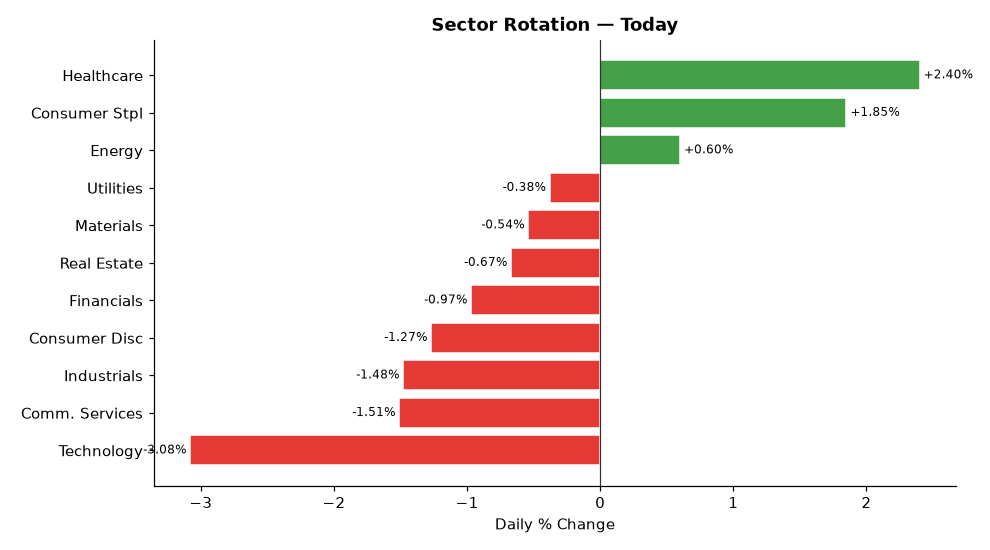
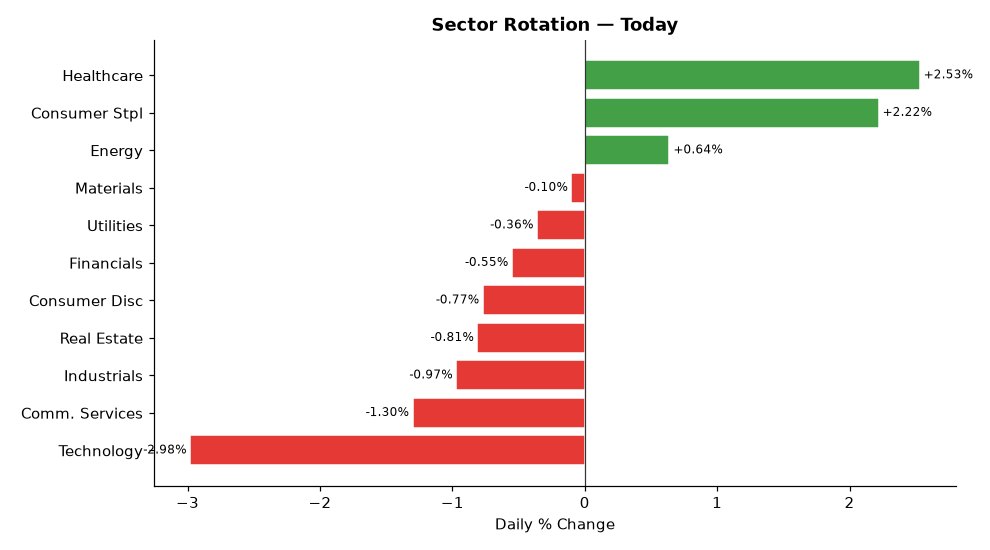
deploy: b7fadf5b06deb90e7ebb92f278722414bdd9750d

diff --git a/index.html b/index.html
@@ -4,7 +4,7 @@
   <meta charset="UTF-8">
   <meta name="viewport" content="width=device-width,initial-scale=1">
   <meta http-equiv="Cache-Control" content="no-cache,no-store,must-revalidate">
-  <title>Stock Breakout Screener — 2026-10-14 18:47</title>
+  <title>Stock Breakout Screener — 2026-10-14 20:32</title>
   <style>
     *{box-sizing:border-box;margin:0;padding:0}
     body{font-family:'Segoe UI',Arial,sans-serif;background:#f0f2f5;
@@ -34,20 +34,20 @@
 
 <div class="hdr">
   <h1>📈 Stock Breakout Screener</h1>
-  <p>Updated: 2026-10-14 18:47 UTC &nbsp;·&nbsp; Phase: Regular Market Hours &nbsp;·&nbsp;
+  <p>Updated: 2026-10-14 20:32 UTC &nbsp;·&nbsp; Phase: After-Hours (4:00–8:00 PM ET) &nbsp;·&nbsp;
      129 stocks screened &nbsp;·&nbsp; Top 5 by conviction score</p>
 </div>
 
 <div class="card">
   <strong style="font-size:14px">Market Sentiment: 🐻 Bearish</strong>
   <div class="bar-wrap" style="margin-top:10px">
-    <div style="width:0%;background:#43a047"></div>
-    <div style="width:8%;background:#fdd835"></div>
+    <div style="width:1%;background:#43a047"></div>
+    <div style="width:7%;background:#fdd835"></div>
     <div style="width:92%;background:#e53935"></div>
   </div>
   <div style="font-size:12px;color:#555">
-    🟢 Strong 0% &nbsp;
-    🟡 Moderate 8% &nbsp;
+    🟢 Strong 1% &nbsp;
+    🟡 Moderate 7% &nbsp;
     🔴 Weak 92%
   </div>
 </div>
@@ -59,17 +59,17 @@
                     box-shadow:0 2px 6px rgba(0,0,0,.07)">
           <div style="display:flex;align-items:center;gap:10px;
                       flex-wrap:wrap;margin-bottom:10px">
-            <span style="font-size:22px">🟡</span>
+            <span style="font-size:22px">🟢</span>
             <span style="font-size:19px;font-weight:700">1. UNH</span>
             <span style="font-size:12px;color:#666">Healthcare</span>
             <span style="margin-left:auto;background:#1a237e;color:#fff;
                          padding:3px 12px;border-radius:12px;
                          font-size:13px;font-weight:600">
-              11/17
+              13/17
             </span>
           </div>
           <ul style="margin:0;padding-left:18px;font-size:13px;
-                     color:#333;line-height:1.8"><li style="margin:5px 0"><span style="background:#ffebee;color:#b71c1c;padding:2px 7px;border-radius:4px;font-size:11px;">❌</span> Volume: <b>0.8× average</b> — Above-average activity</li><li style="margin:5px 0"><span style="background:#ffebee;color:#b71c1c;padding:2px 7px;border-radius:4px;font-size:11px;">❌</span> Candle: close <b>$392.81</b> vs open <b>$382.29</b> (+2.8%) — regular market close</li><li style="margin:5px 0"><span style="background:#e8f5e9;color:#2e7d32;padding:2px 7px;border-radius:4px;font-size:11px;">✅</span> 200-Day MA: price <b>$392.81</b> vs MA <b>$389.04</b> — <b>✅ Above</b> long-term trend</li><li style="margin:5px 0"><span style="background:#e8f5e9;color:#2e7d32;padding:2px 7px;border-radius:4px;font-size:11px;">✅</span> Inst. ownership: <b>89.7%</b> · MFI: <b>68.4</b> · Market cap: <b>$352.7B</b></li></ul>
+                     color:#333;line-height:1.8"><li style="margin:5px 0"><span style="background:#ffebee;color:#b71c1c;padding:2px 7px;border-radius:4px;font-size:11px;">❌</span> Volume: <b>1.3× average</b> — Above-average activity</li><li style="margin:5px 0"><span style="background:#e8f5e9;color:#2e7d32;padding:2px 7px;border-radius:4px;font-size:11px;">✅</span> Candle: close <b>$395.62</b> vs open <b>$382.29</b> (+3.5%) — regular market close</li><li style="margin:5px 0"><span style="background:#e8f5e9;color:#2e7d32;padding:2px 7px;border-radius:4px;font-size:11px;">✅</span> 200-Day MA: price <b>$395.62</b> vs MA <b>$389.68</b> — <b>✅ Above</b> long-term trend</li><li style="margin:5px 0"><span style="background:#e8f5e9;color:#2e7d32;padding:2px 7px;border-radius:4px;font-size:11px;">✅</span> Inst. ownership: <b>89.7%</b> · MFI: <b>69.5</b> · Market cap: <b>$355.1B</b></li></ul>
         </div>
         <div style="background:#fff;border:1px solid #ddd;border-radius:10px;
                     padding:16px 20px;margin-bottom:12px;
@@ -86,7 +86,7 @@
             </span>
           </div>
           <ul style="margin:0;padding-left:18px;font-size:13px;
-                     color:#333;line-height:1.8"><li style="margin:5px 0"><span style="background:#ffebee;color:#b71c1c;padding:2px 7px;border-radius:4px;font-size:11px;">❌</span> Volume: <b>0.4× average</b> — Above-average activity</li><li style="margin:5px 0"><span style="background:#ffebee;color:#b71c1c;padding:2px 7px;border-radius:4px;font-size:11px;">❌</span> Candle: close <b>$284.29</b> vs open <b>$277.00</b> (+2.6%) — regular market close</li><li style="margin:5px 0"><span style="background:#e8f5e9;color:#2e7d32;padding:2px 7px;border-radius:4px;font-size:11px;">✅</span> 200-Day MA: price <b>$284.29</b> vs MA <b>$239.73</b> — <b>✅ Above</b> long-term trend</li><li style="margin:5px 0"><span style="background:#e8f5e9;color:#2e7d32;padding:2px 7px;border-radius:4px;font-size:11px;">✅</span> Inst. ownership: <b>77.3%</b> · MFI: <b>60.5</b> · Market cap: <b>$502.4B</b></li><li style="margin:5px 0"><span style="background:#ffebee;color:#b71c1c;padding:2px 7px;border-radius:4px;font-size:11px;">❌</span> Last similar breakout: <b>Jun 26, 2026</b> → <b>-2.1%</b> over 10 trading days</li></ul>
+                     color:#333;line-height:1.8"><li style="margin:5px 0"><span style="background:#ffebee;color:#b71c1c;padding:2px 7px;border-radius:4px;font-size:11px;">❌</span> Volume: <b>0.9× average</b> — Above-average activity</li><li style="margin:5px 0"><span style="background:#ffebee;color:#b71c1c;padding:2px 7px;border-radius:4px;font-size:11px;">❌</span> Candle: close <b>$283.48</b> vs open <b>$277.00</b> (+2.3%) — regular market close</li><li style="margin:5px 0"><span style="background:#e8f5e9;color:#2e7d32;padding:2px 7px;border-radius:4px;font-size:11px;">✅</span> 200-Day MA: price <b>$283.48</b> vs MA <b>$239.98</b> — <b>✅ Above</b> long-term trend</li><li style="margin:5px 0"><span style="background:#e8f5e9;color:#2e7d32;padding:2px 7px;border-radius:4px;font-size:11px;">✅</span> Inst. ownership: <b>77.3%</b> · MFI: <b>62.4</b> · Market cap: <b>$500.9B</b></li><li style="margin:5px 0"><span style="background:#ffebee;color:#b71c1c;padding:2px 7px;border-radius:4px;font-size:11px;">❌</span> Last similar breakout: <b>Jun 26, 2026</b> → <b>-2.1%</b> over 10 trading days</li></ul>
         </div>
         <div style="background:#fff;border:1px solid #ddd;border-radius:10px;
                     padding:16px 20px;margin-bottom:12px;
@@ -103,7 +103,7 @@
             </span>
           </div>
           <ul style="margin:0;padding-left:18px;font-size:13px;
-                     color:#333;line-height:1.8"><li style="margin:5px 0"><span style="background:#ffebee;color:#b71c1c;padding:2px 7px;border-radius:4px;font-size:11px;">❌</span> Volume: <b>0.3× average</b> — Above-average activity</li><li style="margin:5px 0"><span style="background:#ffebee;color:#b71c1c;padding:2px 7px;border-radius:4px;font-size:11px;">❌</span> Candle: close <b>$533.97</b> vs open <b>$545.15</b> (-2.0%) — regular market close</li><li style="margin:5px 0"><span style="background:#e8f5e9;color:#2e7d32;padding:2px 7px;border-radius:4px;font-size:11px;">✅</span> 200-Day MA: price <b>$533.97</b> vs MA <b>$444.44</b> — <b>✅ Above</b> long-term trend</li><li style="margin:5px 0"><span style="background:#e8f5e9;color:#2e7d32;padding:2px 7px;border-radius:4px;font-size:11px;">✅</span> Inst. ownership: <b>75.8%</b> · MFI: <b>77.3</b> · Market cap: <b>$3965.4B</b></li><li style="margin:5px 0"><span style="background:#e8f5e9;color:#2e7d32;padding:2px 7px;border-radius:4px;font-size:11px;">✅</span> Last similar breakout: <b>Jul 30, 2026</b> → <b>+10.1%</b> over 10 trading days</li></ul>
+                     color:#333;line-height:1.8"><li style="margin:5px 0"><span style="background:#ffebee;color:#b71c1c;padding:2px 7px;border-radius:4px;font-size:11px;">❌</span> Volume: <b>0.6× average</b> — Above-average activity</li><li style="margin:5px 0"><span style="background:#ffebee;color:#b71c1c;padding:2px 7px;border-radius:4px;font-size:11px;">❌</span> Candle: close <b>$533.69</b> vs open <b>$545.15</b> (-2.1%) — regular market close</li><li style="margin:5px 0"><span style="background:#e8f5e9;color:#2e7d32;padding:2px 7px;border-radius:4px;font-size:11px;">✅</span> 200-Day MA: price <b>$533.69</b> vs MA <b>$444.86</b> — <b>✅ Above</b> long-term trend</li><li style="margin:5px 0"><span style="background:#e8f5e9;color:#2e7d32;padding:2px 7px;border-radius:4px;font-size:11px;">✅</span> Inst. ownership: <b>75.8%</b> · MFI: <b>74.9</b> · Market cap: <b>$3962.9B</b></li><li style="margin:5px 0"><span style="background:#e8f5e9;color:#2e7d32;padding:2px 7px;border-radius:4px;font-size:11px;">✅</span> Last similar breakout: <b>Jul 30, 2026</b> → <b>+10.1%</b> over 10 trading days</li></ul>
         </div>
         <div style="background:#fff;border:1px solid #ddd;border-radius:10px;
                     padding:16px 20px;margin-bottom:12px;
@@ -120,7 +120,7 @@
             </span>
           </div>
           <ul style="margin:0;padding-left:18px;font-size:13px;
-                     color:#333;line-height:1.8"><li style="margin:5px 0"><span style="background:#ffebee;color:#b71c1c;padding:2px 7px;border-radius:4px;font-size:11px;">❌</span> Volume: <b>0.7× average</b> — Above-average activity</li><li style="margin:5px 0"><span style="background:#ffebee;color:#b71c1c;padding:2px 7px;border-radius:4px;font-size:11px;">❌</span> Candle: close <b>$29.33</b> vs open <b>$28.60</b> (+2.6%) — regular market close</li><li style="margin:5px 0"><span style="background:#e8f5e9;color:#2e7d32;padding:2px 7px;border-radius:4px;font-size:11px;">✅</span> 200-Day MA: price <b>$29.33</b> vs MA <b>$26.14</b> — <b>✅ Above</b> long-term trend</li><li style="margin:5px 0"><span style="background:#e8f5e9;color:#2e7d32;padding:2px 7px;border-radius:4px;font-size:11px;">✅</span> Inst. ownership: <b>69.1%</b> · MFI: <b>51.0</b> · Market cap: <b>$167.2B</b></li></ul>
+                     color:#333;line-height:1.8"><li style="margin:5px 0"><span style="background:#ffebee;color:#b71c1c;padding:2px 7px;border-radius:4px;font-size:11px;">❌</span> Volume: <b>1.0× average</b> — Above-average activity</li><li style="margin:5px 0"><span style="background:#ffebee;color:#b71c1c;padding:2px 7px;border-radius:4px;font-size:11px;">❌</span> Candle: close <b>$29.21</b> vs open <b>$28.60</b> (+2.1%) — regular market close</li><li style="margin:5px 0"><span style="background:#e8f5e9;color:#2e7d32;padding:2px 7px;border-radius:4px;font-size:11px;">✅</span> 200-Day MA: price <b>$29.21</b> vs MA <b>$26.14</b> — <b>✅ Above</b> long-term trend</li><li style="margin:5px 0"><span style="background:#e8f5e9;color:#2e7d32;padding:2px 7px;border-radius:4px;font-size:11px;">✅</span> Inst. ownership: <b>69.1%</b> · MFI: <b>52.6</b> · Market cap: <b>$166.5B</b></li></ul>
         </div>
         <div style="background:#fff;border:1px solid #ddd;border-radius:10px;
                     padding:16px 20px;margin-bottom:12px;
@@ -137,7 +137,7 @@
             </span>
           </div>
           <ul style="margin:0;padding-left:18px;font-size:13px;
-                     color:#333;line-height:1.8"><li style="margin:5px 0"><span style="background:#ffebee;color:#b71c1c;padding:2px 7px;border-radius:4px;font-size:11px;">❌</span> Volume: <b>0.6× average</b> — Above-average activity</li><li style="margin:5px 0"><span style="background:#ffebee;color:#b71c1c;padding:2px 7px;border-radius:4px;font-size:11px;">❌</span> Candle: close <b>$1212.08</b> vs open <b>$1177.87</b> (+2.9%) — regular market close</li><li style="margin:5px 0"><span style="background:#e8f5e9;color:#2e7d32;padding:2px 7px;border-radius:4px;font-size:11px;">✅</span> 200-Day MA: price <b>$1212.08</b> vs MA <b>$1116.13</b> — <b>✅ Above</b> long-term trend</li><li style="margin:5px 0"><span style="background:#e8f5e9;color:#2e7d32;padding:2px 7px;border-radius:4px;font-size:11px;">✅</span> Inst. ownership: <b>85.3%</b> · MFI: <b>51.2</b> · Market cap: <b>$1080.9B</b></li><li style="margin:5px 0"><span style="background:#ffebee;color:#b71c1c;padding:2px 7px;border-radius:4px;font-size:11px;">❌</span> Last similar breakout: <b>Jun 26, 2026</b> → <b>-2.2%</b> over 10 trading days</li></ul>
+                     color:#333;line-height:1.8"><li style="margin:5px 0"><span style="background:#ffebee;color:#b71c1c;padding:2px 7px;border-radius:4px;font-size:11px;">❌</span> Volume: <b>1.1× average</b> — Above-average activity</li><li style="margin:5px 0"><span style="background:#ffebee;color:#b71c1c;padding:2px 7px;border-radius:4px;font-size:11px;">❌</span> Candle: close <b>$1208.74</b> vs open <b>$1177.87</b> (+2.6%) — regular market close</li><li style="margin:5px 0"><span style="background:#e8f5e9;color:#2e7d32;padding:2px 7px;border-radius:4px;font-size:11px;">✅</span> 200-Day MA: price <b>$1208.74</b> vs MA <b>$1117.65</b> — <b>✅ Above</b> long-term trend</li><li style="margin:5px 0"><span style="background:#e8f5e9;color:#2e7d32;padding:2px 7px;border-radius:4px;font-size:11px;">✅</span> Inst. ownership: <b>85.3%</b> · MFI: <b>53.3</b> · Market cap: <b>$1077.4B</b></li><li style="margin:5px 0"><span style="background:#ffebee;color:#b71c1c;padding:2px 7px;border-radius:4px;font-size:11px;">❌</span> Last similar breakout: <b>Jun 26, 2026</b> → <b>-2.2%</b> over 10 trading days</li></ul>
         </div>
 
 
@@ -168,36 +168,36 @@
   
         <tr>
           <td style="font-weight:700;text-align:left;padding-left:10px">
-            🟡 UNH</td>
-          <td style="background:#ffcdd2">0.8×</td>
-          <td style="background:#ffcdd2">+2.8%</td>
+            🟢 UNH</td>
+          <td style="background:#ffcdd2">1.3×</td>
+          <td style="background:#c8e6c9">+3.5%</td>
           <td style="background:#c8e6c9">
             ▲ Above</td>
           <td style="background:#c8e6c9">
             89.7%</td>
           <td style="background:#c8e6c9">
-            68.4</td>
+            69.5</td>
           <td style="background:#c8e6c9">Healthcare</td>
           <td style="background:#c8e6c9">
-            91.3%</td>
+            99.0%</td>
           <td style="background:#ffcdd2">
             N/A</td>
-          <td style="font-weight:800;font-size:15px">11/17</td>
+          <td style="font-weight:800;font-size:15px">13/17</td>
         </tr>
         <tr>
           <td style="font-weight:700;text-align:left;padding-left:10px">
             🟡 ABBV</td>
-          <td style="background:#ffcdd2">0.4×</td>
-          <td style="background:#ffcdd2">+2.6%</td>
+          <td style="background:#ffcdd2">0.9×</td>
+          <td style="background:#ffcdd2">+2.3%</td>
           <td style="background:#c8e6c9">
             ▲ Above</td>
           <td style="background:#c8e6c9">
             77.3%</td>
           <td style="background:#c8e6c9">
-            60.5</td>
+            62.4</td>
           <td style="background:#c8e6c9">Healthcare</td>
           <td style="background:#c8e6c9">
-            120.7%</td>
+            153.5%</td>
           <td style="background:#ffcdd2">
             -2.1%</td>
           <td style="font-weight:800;font-size:15px">11/17</td>
@@ -205,17 +205,17 @@
         <tr>
           <td style="font-weight:700;text-align:left;padding-left:10px">
             🟡 MSFT</td>
-          <td style="background:#ffcdd2">0.3×</td>
-          <td style="background:#ffcdd2">-2.0%</td>
+          <td style="background:#ffcdd2">0.6×</td>
+          <td style="background:#ffcdd2">-2.1%</td>
           <td style="background:#c8e6c9">
             ▲ Above</td>
           <td style="background:#c8e6c9">
             75.8%</td>
           <td style="background:#c8e6c9">
-            77.3</td>
+            74.9</td>
           <td style="background:#ffcdd2">Technology</td>
           <td style="background:#c8e6c9">
-            80.7%</td>
+            92.6%</td>
           <td style="background:#c8e6c9">
             +10.1%</td>
           <td style="font-weight:800;font-size:15px">10/17</td>
@@ -223,17 +223,17 @@
         <tr>
           <td style="font-weight:700;text-align:left;padding-left:10px">
             🟡 PFE</td>
-          <td style="background:#ffcdd2">0.7×</td>
-          <td style="background:#ffcdd2">+2.6%</td>
+          <td style="background:#ffcdd2">1.0×</td>
+          <td style="background:#ffcdd2">+2.1%</td>
           <td style="background:#c8e6c9">
             ▲ Above</td>
           <td style="background:#c8e6c9">
             69.1%</td>
           <td style="background:#fff9c4">
-            51.0</td>
+            52.6</td>
           <td style="background:#c8e6c9">Healthcare</td>
           <td style="background:#c8e6c9">
-            124.4%</td>
+            142.4%</td>
           <td style="background:#ffcdd2">
             N/A</td>
           <td style="font-weight:800;font-size:15px">10/17</td>
@@ -241,17 +241,17 @@
         <tr>
           <td style="font-weight:700;text-align:left;padding-left:10px">
             🟡 LLY</td>
-          <td style="background:#ffcdd2">0.6×</td>
-          <td style="background:#ffcdd2">+2.9%</td>
+          <td style="background:#ffcdd2">1.1×</td>
+          <td style="background:#ffcdd2">+2.6%</td>
           <td style="background:#c8e6c9">
             ▲ Above</td>
           <td style="background:#c8e6c9">
             85.3%</td>
           <td style="background:#fff9c4">
-            51.2</td>
+            53.3</td>
           <td style="background:#c8e6c9">Healthcare</td>
           <td style="background:#c8e6c9">
-            101.2%</td>
+            111.4%</td>
           <td style="background:#ffcdd2">
             -2.2%</td>
           <td style="font-weight:800;font-size:15px">10/17</td>
@@ -278,57 +278,57 @@
         <tr>
           <td style="text-align:left;padding-left:10px;font-weight:600">
             #1 Healthcare</td>
-          <td style="background:#e8f5e9;color:#2e7d32;font-weight:700">+2.40%</td>
+          <td style="background:#e8f5e9;color:#2e7d32;font-weight:700">+2.53%</td>
         </tr>
         <tr>
           <td style="text-align:left;padding-left:10px;font-weight:600">
             #2 Consumer Stpl</td>
-          <td style="background:#e8f5e9;color:#2e7d32;font-weight:700">+1.85%</td>
+          <td style="background:#e8f5e9;color:#2e7d32;font-weight:700">+2.22%</td>
         </tr>
         <tr>
           <td style="text-align:left;padding-left:10px;font-weight:600">
             #3 Energy</td>
-          <td style="background:#e8f5e9;color:#2e7d32;font-weight:700">+0.60%</td>
+          <td style="background:#e8f5e9;color:#2e7d32;font-weight:700">+0.64%</td>
         </tr>
         <tr>
           <td style="text-align:left;padding-left:10px;font-weight:600">
-            #4 Utilities</td>
-          <td style="background:#ffebee;color:#c62828;font-weight:700">-0.38%</td>
+            #4 Materials</td>
+          <td style="background:#ffebee;color:#c62828;font-weight:700">-0.10%</td>
         </tr>
         <tr>
           <td style="text-align:left;padding-left:10px;font-weight:600">
-            #5 Materials</td>
-          <td style="background:#ffebee;color:#c62828;font-weight:700">-0.54%</td>
+            #5 Utilities</td>
+          <td style="background:#ffebee;color:#c62828;font-weight:700">-0.36%</td>
         </tr>
         <tr>
           <td style="text-align:left;padding-left:10px;font-weight:600">
-            #6 Real Estate</td>
-          <td style="background:#ffebee;color:#c62828;font-weight:700">-0.67%</td>
+            #6 Financials</td>
+          <td style="background:#ffebee;color:#c62828;font-weight:700">-0.55%</td>
         </tr>
         <tr>
           <td style="text-align:left;padding-left:10px;font-weight:600">
-            #7 Financials</td>
-          <td style="background:#ffebee;color:#c62828;font-weight:700">-0.97%</td>
+            #7 Consumer Disc</td>
+          <td style="background:#ffebee;color:#c62828;font-weight:700">-0.77%</td>
         </tr>
         <tr>
           <td style="text-align:left;padding-left:10px;font-weight:600">
-            #8 Consumer Disc</td>
-          <td style="background:#ffebee;color:#c62828;font-weight:700">-1.27%</td>
+            #8 Real Estate</td>
+          <td style="background:#ffebee;color:#c62828;font-weight:700">-0.81%</td>
         </tr>
         <tr>
           <td style="text-align:left;padding-left:10px;font-weight:600">
             #9 Industrials</td>
-          <td style="background:#ffebee;color:#c62828;font-weight:700">-1.48%</td>
+          <td style="background:#ffebee;color:#c62828;font-weight:700">-0.97%</td>
         </tr>
         <tr>
           <td style="text-align:left;padding-left:10px;font-weight:600">
             #10 Comm. Services</td>
-          <td style="background:#ffebee;color:#c62828;font-weight:700">-1.51%</td>
+          <td style="background:#ffebee;color:#c62828;font-weight:700">-1.30%</td>
         </tr>
         <tr>
           <td style="text-align:left;padding-left:10px;font-weight:600">
             #11 Technology</td>
-          <td style="background:#ffebee;color:#c62828;font-weight:700">-3.08%</td>
+          <td style="background:#ffebee;color:#c62828;font-weight:700">-2.98%</td>
         </tr>
     </table>
   </div>
@@ -367,7 +367,7 @@
         <li><b>Scoring weights:</b>
             Inst.Own(3) · Sector(3) · Volume(2) · Breakout(2) ·
             MA200(2) · MFI(2) · History(2) · IV(1) = 17pts max</li>
-        <li><b>Run time:</b> 2026-10-14 18:47 UTC — Market phase: Regular Market Hours</li>
+        <li><b>Run time:</b> 2026-10-14 20:32 UTC — Market phase: After-Hours (4:00–8:00 PM ET)</li>
       </ul>
     </div>
 
